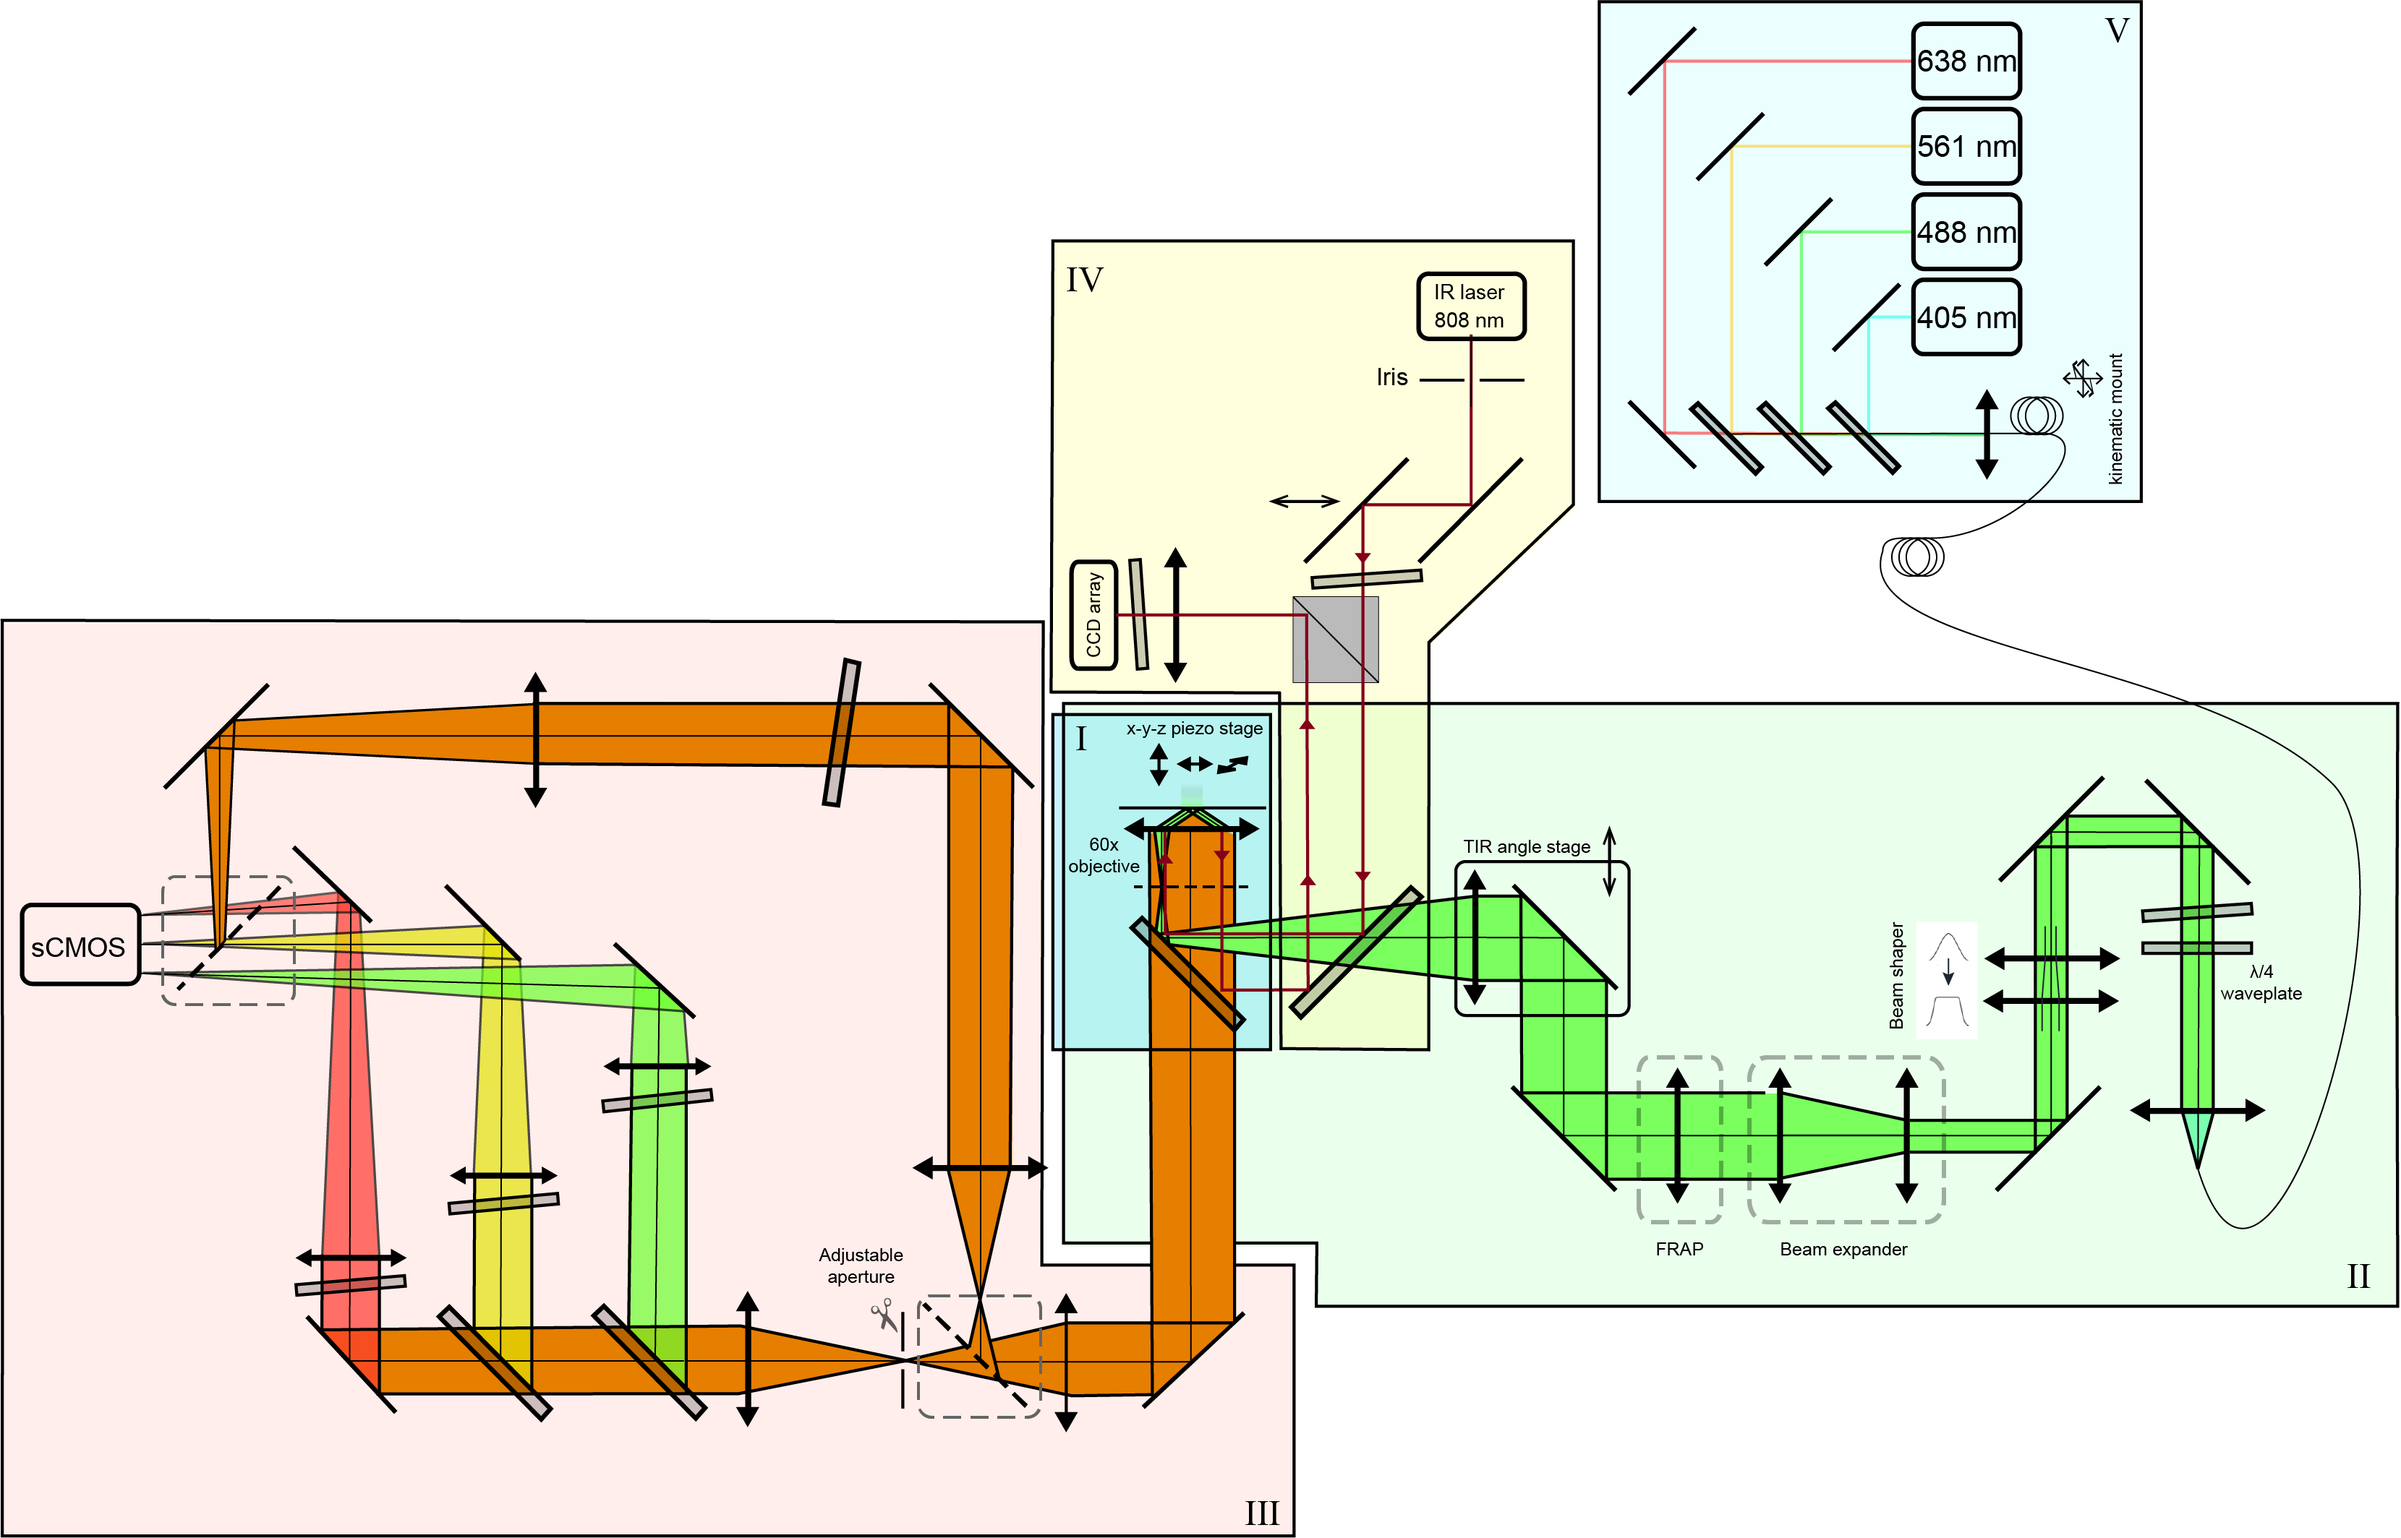
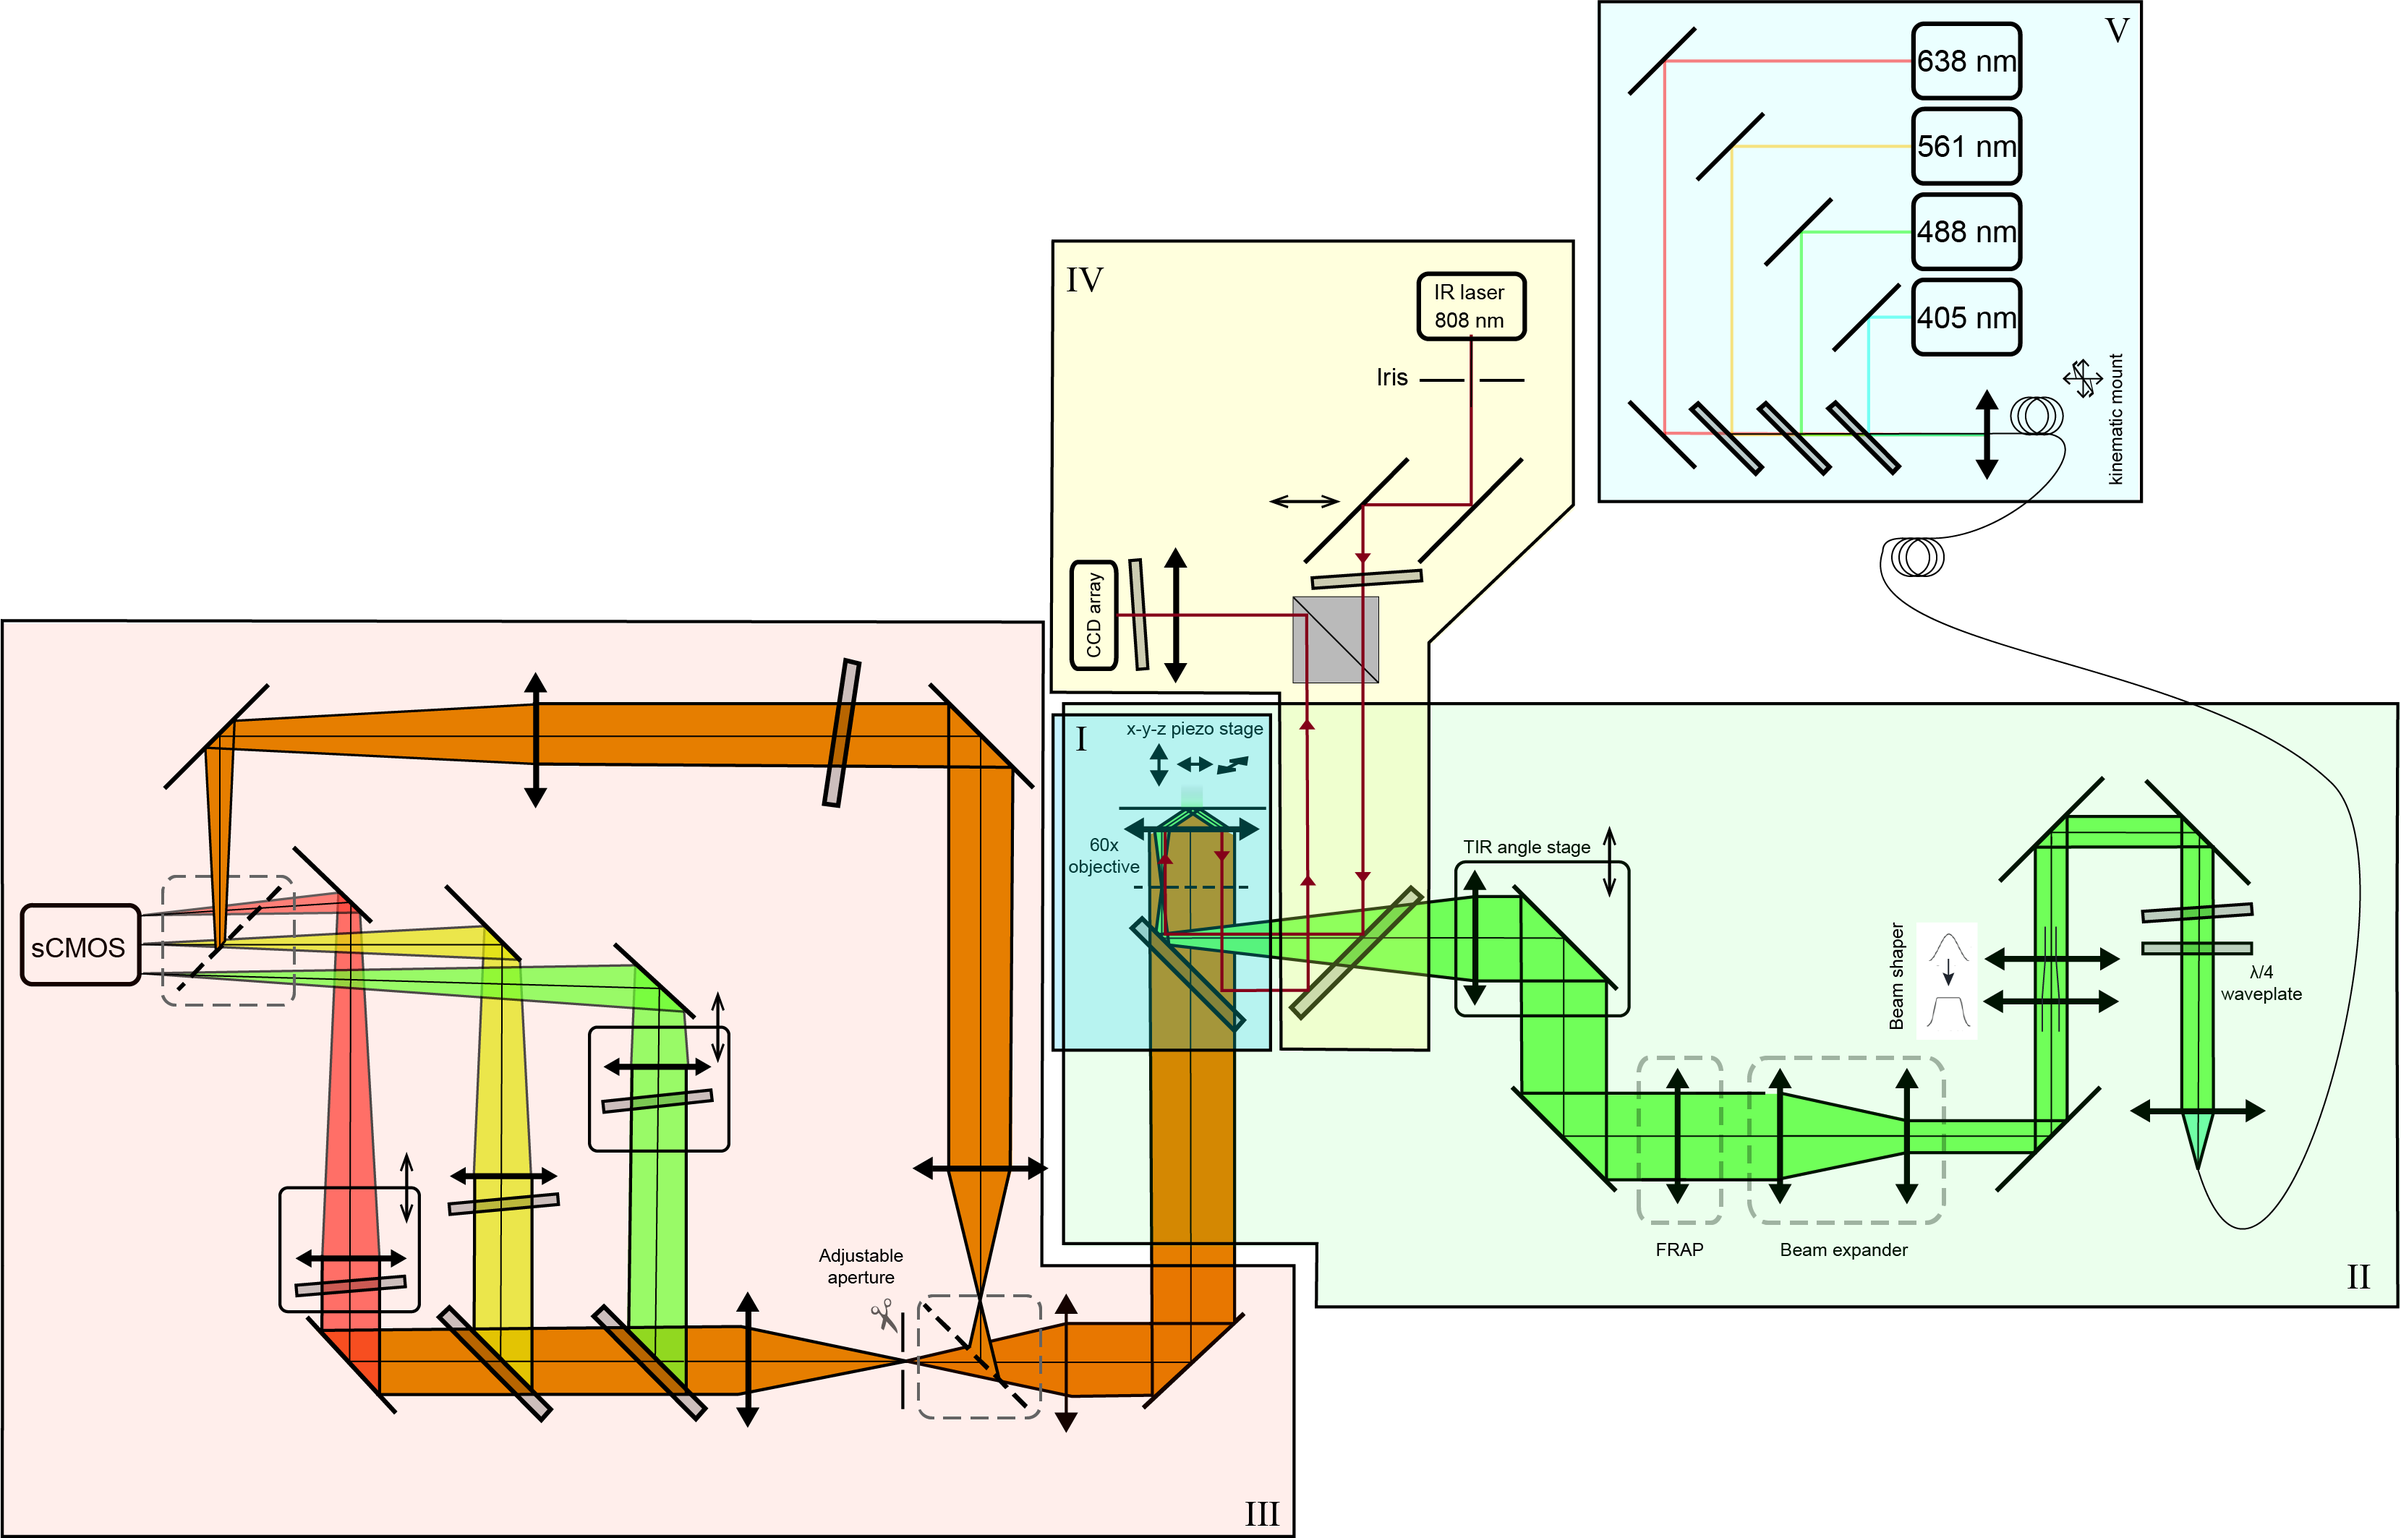
dovetail translation stages added

diff --git a/K2TIRF/component_table.html b/K2TIRF/component_table.html
@@ -308,7 +308,7 @@ restricts the image horizontally so up to three separate, spatially identical im
 and three <a href="https://www.thorlabs.com/thorproduct.cfm?partnumber=AC254-300-A">1" AC254-300-A lenses</a> in <a href="https://www.thorlabs.com/thorproduct.cfm?partnumber=LMR1/M"> LMR1/M</a> fixed lens mounts.</div>
 4f-system to gain enough space to include dichroic mirrors and filters for separating the color channels.</td> <!--description-->
 <td><img src="images/emission_splitter_close.png" class="fancybox" id=42></td> <!--image-->
-<td><img src="images/4fsystem.jpg" class="fancybox" id=42>Three individual lenses make it easy to ensure focusing  of the same z-plane for the different wavelengths.</td> <!--notes-->
+<td><img src="images/4fsystem.jpg" class="fancybox" id=42>Three individual lenses make it easy to ensure focusing  of the same z-plane for the different wavelengths. Lenses can be moved along the optical path using <a href="https://www.thorlabs.com/thorproduct.cfm?partnumber=DT12/M">dovetail translation stages</a> mounted on rails.</td> <!--notes-->
 </tr>
 <tr>
 <td>5</td> <!--id-->
